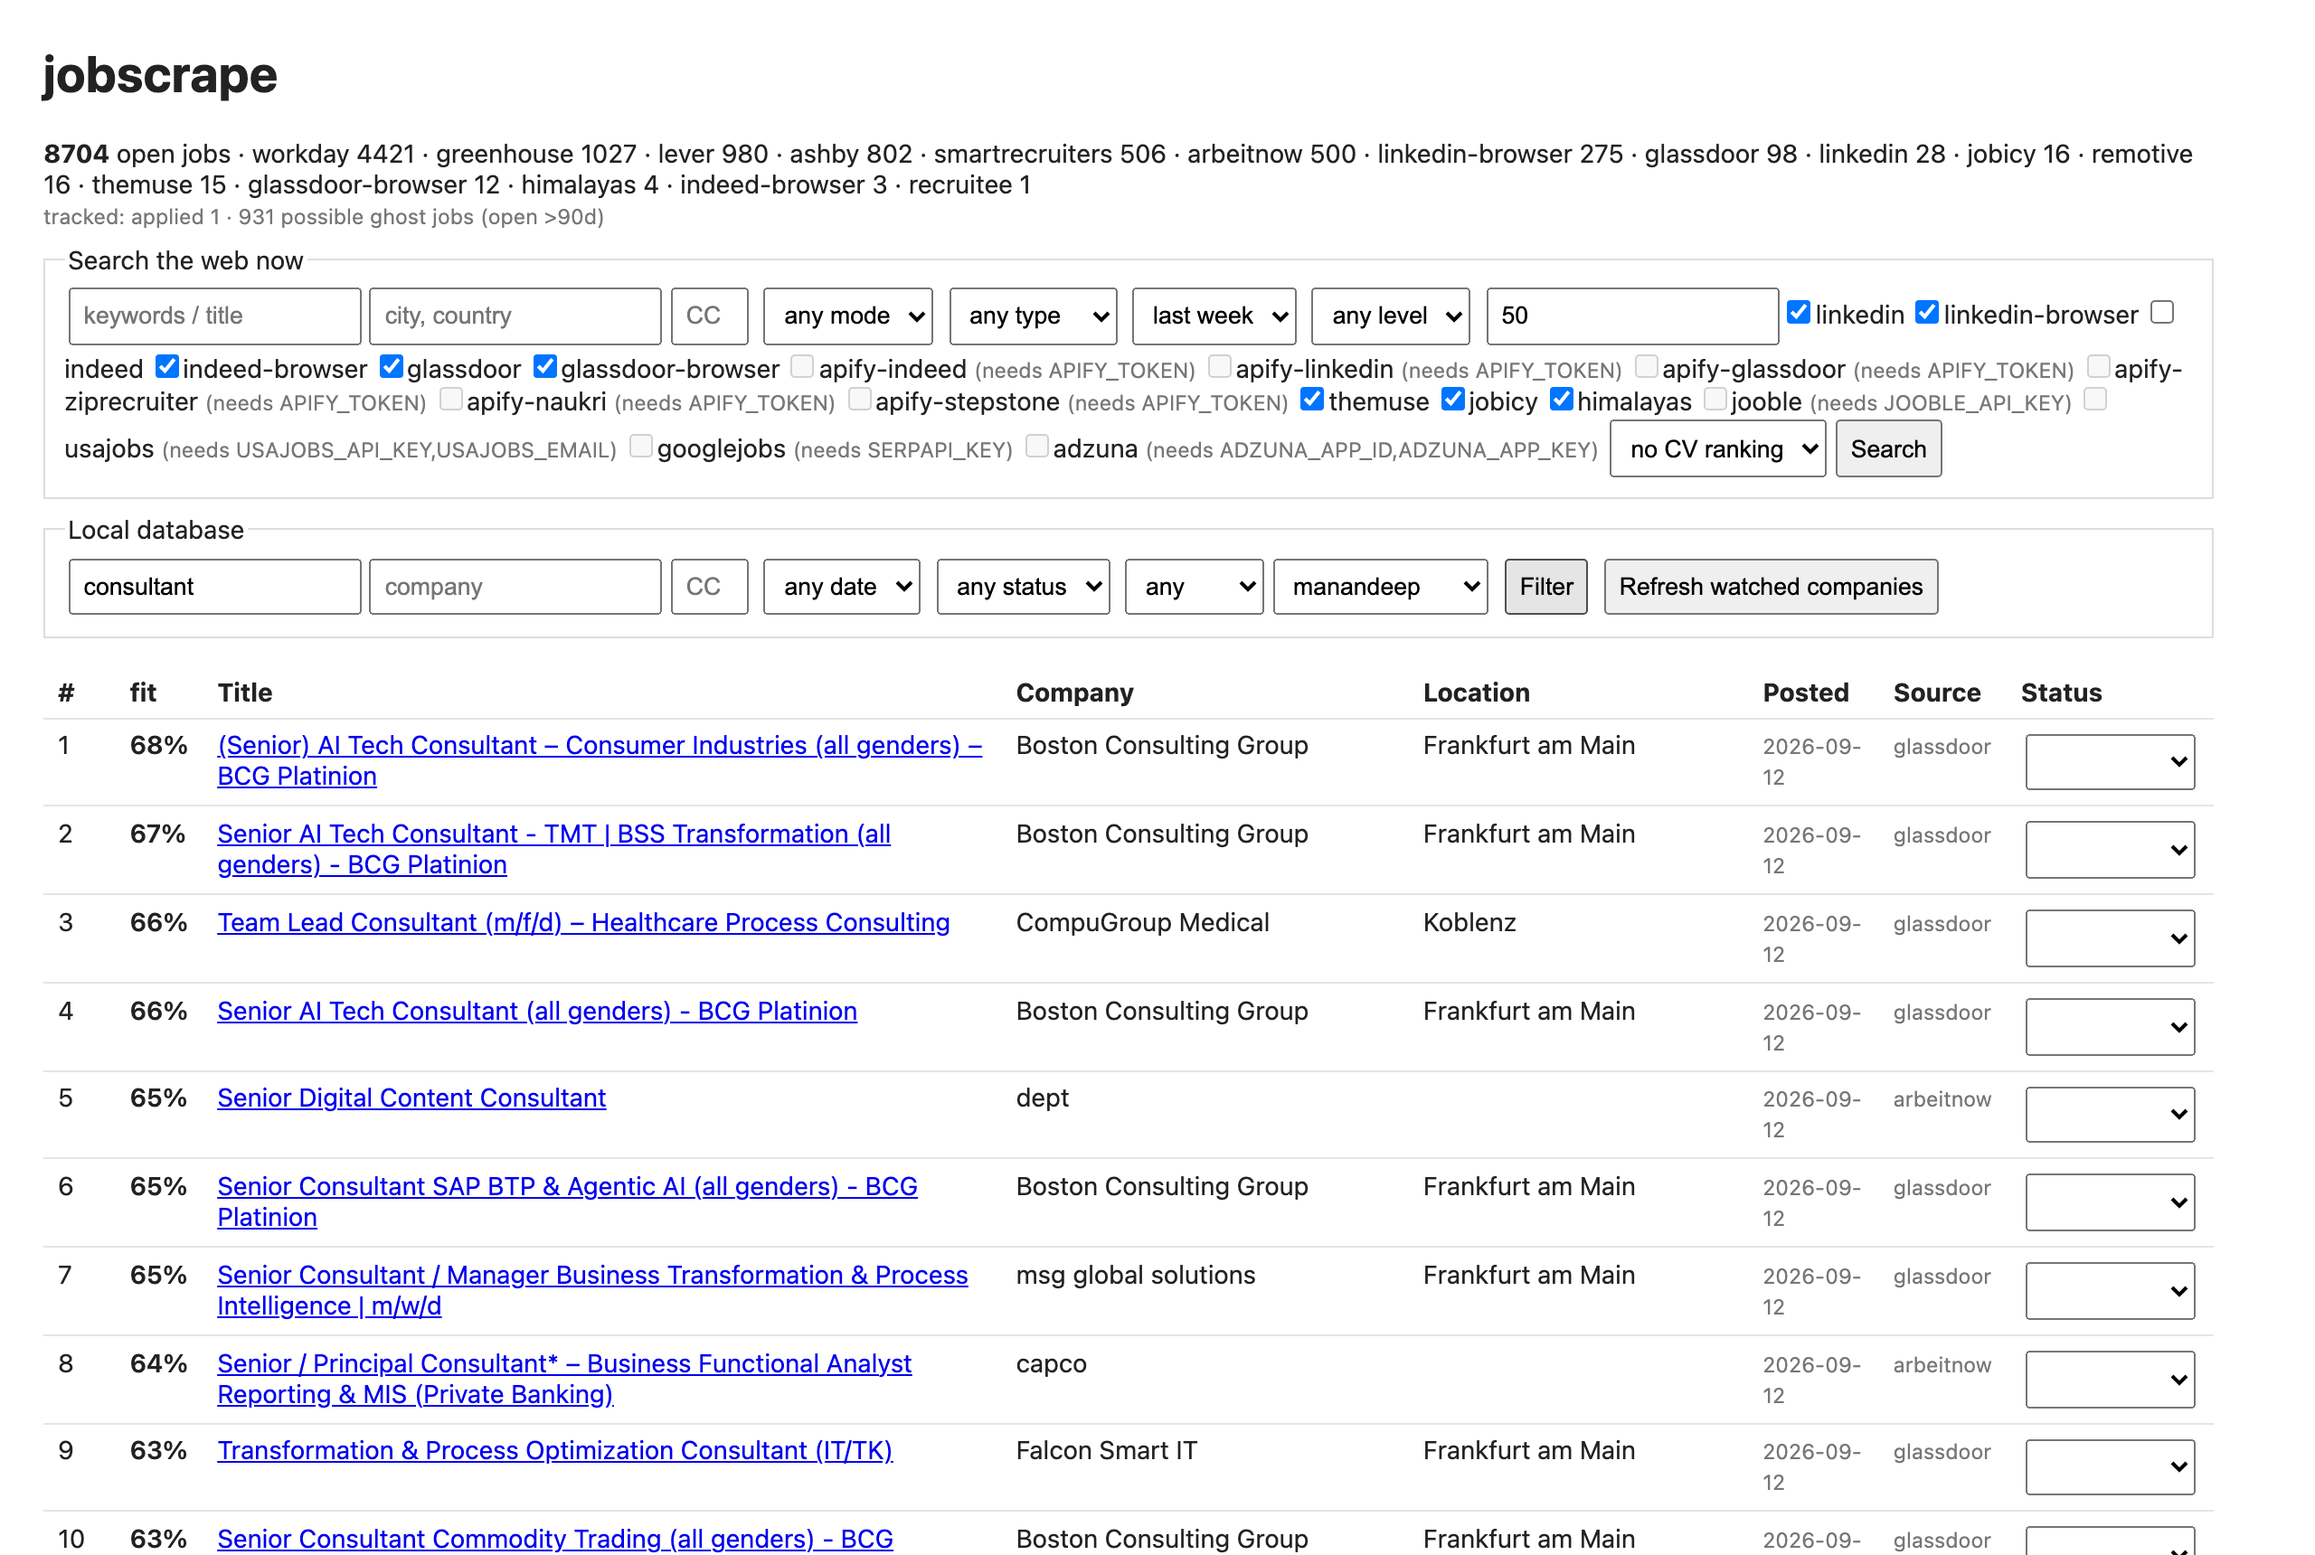
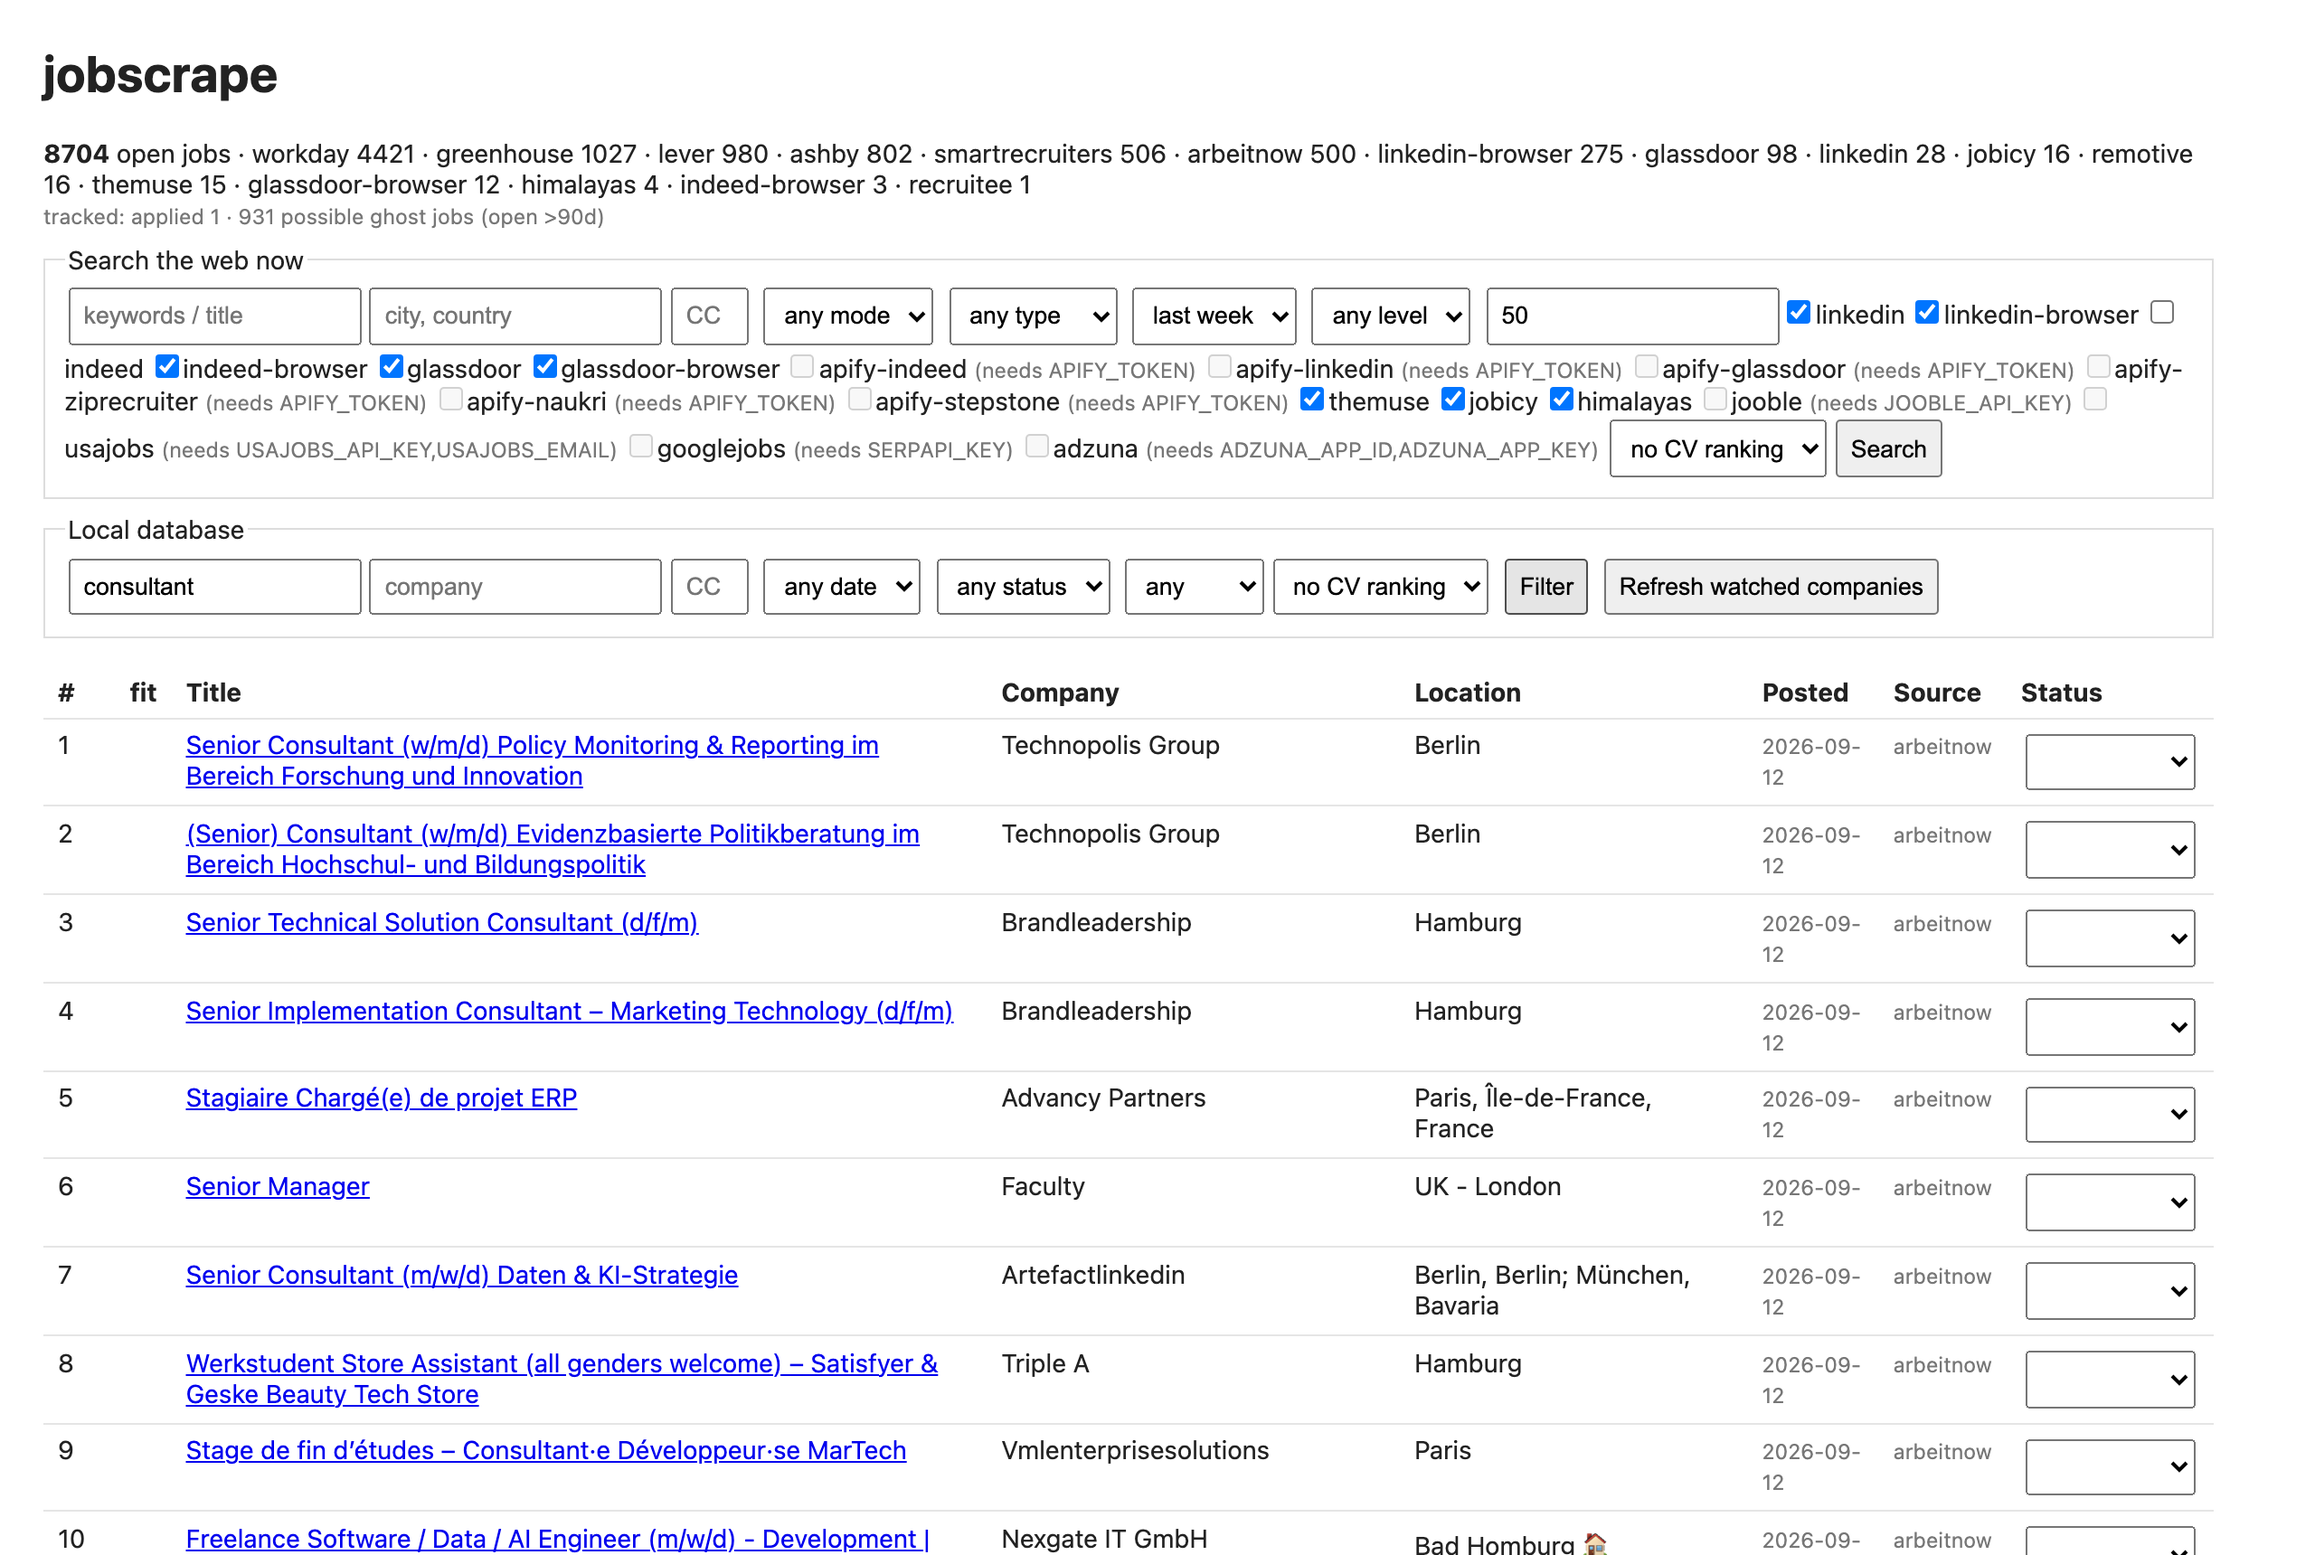
README: show the source health check
An example run with all three sections populated, modelled on the Lever slowdown that actually
happened during development: a source erroring, two fetching far below their seven-day average, one
gone quiet. A screenshot of a clean run would be three zeros and teach nothing. The screenshot
script now renders any terminal transcript and trims the canvas to the content.

diff --git a/scripts/screenshots.ts b/scripts/screenshots.ts
@@ -1,6 +1,7 @@
 // SPDX-License-Identifier: AGPL-3.0-or-later
 // Copyright (C) 2026 Manandeep Gill
-// Regenerates docs/img/*.png: node scripts/screenshots.ts <wizard-transcript.txt> <file:///…/digest.html> [profile-name]
+// Regenerates docs/img/*.png:
+//   node scripts/screenshots.ts <wizard-transcript.txt> <file:///…/digest.html> [profile-name] [health-transcript.txt]
 // Needs `JOBSCRAPE_PORT=3215 node src/index.ts serve` running.
 import { chromium } from "patchright";
 import { readFileSync, writeFileSync } from "node:fs";
@@ -18,14 +19,25 @@ await page.screenshot({ path: "docs/img/dashboard.png" });
 await page.goto(process.argv[3]);  // file:// URL of a generated digest
 await page.waitForTimeout(500);
 await page.screenshot({ path: "docs/img/digest.png", clip: { x: 0, y: 0, width: 1280, height: 720 } });
-// 3) wizard transcript rendered as a terminal
-const transcript = readFileSync(process.argv[2], "utf8");
+// 3) + 4) terminal transcripts rendered as a macOS-style window
 const esc = (s: string) => s.replace(/[<>&]/g, (c) => ({ "<": "&lt;", ">": "&gt;", "&": "&amp;" }[c]!));
-const html = `<html><body style="margin:0;background:#0b0d12"><div style="width:1180px;margin:30px auto;background:#151821;border-radius:12px;box-shadow:0 20px 60px #0008;overflow:hidden;font:14px/1.45 'SF Mono',Menlo,monospace;color:#d7dae0">
-<div style="background:#1f232e;padding:10px 14px;display:flex;gap:8px"><span style="width:12px;height:12px;border-radius:6px;background:#ff5f57"></span><span style="width:12px;height:12px;border-radius:6px;background:#febc2e"></span><span style="width:12px;height:12px;border-radius:6px;background:#28c840"></span><span style="margin-left:12px;color:#8a90a0">jobscrape — node src/index.ts</span></div>
-<pre style="margin:0;padding:18px 22px;white-space:pre-wrap">${esc(transcript).replace(/^(\? .*)$/gm, '<span style="color:#7ab4ff">$1</span>').replace(/^(Plan:.*)$/gm, '<span style="color:#febc2e">$1</span>').replace(/^(\d+ +\d+% +\d+%.*)$/gm, (m) => Number(m.split(/\s+/)[1]) >= 70 ? `<span style="color:#7ee0a0">${m}</span>` : m)}</pre></div></body></html>`;
-await page.setContent(html);
-await page.setViewportSize({ width: 1280, height: 900 });
-await page.screenshot({ path: "docs/img/wizard.png", fullPage: true });
+const colour = (t: string) => esc(t)
+  .replace(/^(\? .*)$/gm, '<span style="color:#7ab4ff">$1</span>')
+  .replace(/^(Plan:.*)$/gm, '<span style="color:#febc2e">$1</span>')
+  .replace(/^(.*✗.*)$/gm, '<span style="color:#ff6b6b">$1</span>')
+  .replace(/^(.*⚠.*)$/gm, '<span style="color:#febc2e">$1</span>')
+  .replace(/^(\d+ +\d+% +\d+%.*)$/gm, (m) => Number(m.split(/\s+/)[1]) >= 70 ? `<span style="color:#7ee0a0">${m}</span>` : m);
+async function terminal(transcript: string, title: string, out: string) {
+  await page.setContent(`<html><body style="margin:0;background:#0b0d12"><div style="width:1180px;margin:30px auto;background:#151821;border-radius:12px;box-shadow:0 20px 60px #0008;overflow:hidden;font:14px/1.45 'SF Mono',Menlo,monospace;color:#d7dae0">
+<div style="background:#1f232e;padding:10px 14px;display:flex;gap:8px"><span style="width:12px;height:12px;border-radius:6px;background:#ff5f57"></span><span style="width:12px;height:12px;border-radius:6px;background:#febc2e"></span><span style="width:12px;height:12px;border-radius:6px;background:#28c840"></span><span style="margin-left:12px;color:#8a90a0">${esc(title)}</span></div>
+<pre style="margin:0;padding:18px 22px;white-space:pre-wrap">${colour(transcript)}</pre></div></body></html>`);
+  await page.setViewportSize({ width: 1280, height: 900 });
+  // body.scrollHeight floors at the viewport, so measure the window element itself and add its 30px margins
+  const h = await page.evaluate(() => Math.ceil(document.querySelector("div")!.getBoundingClientRect().height) + 60);
+  await page.setViewportSize({ width: 1280, height: Math.max(200, h) });
+  await page.screenshot({ path: out, fullPage: true });
+}
+await terminal(readFileSync(process.argv[2], "utf8"), "jobscrape — node src/index.ts", "docs/img/wizard.png");
+if (process.argv[5]) await terminal(readFileSync(process.argv[5], "utf8"), "jobscrape — node src/index.ts health", "docs/img/health.png");
 await b.close();
 console.log("screenshots done");

diff --git a/README.md b/README.md
@@ -62,8 +62,14 @@ Live web search with source checkboxes and CV ranking, filters over everything s
 
 Registered as a launchd agent at 08:30. It refreshes every watched company, re-runs your saved searches, ranks what is
 new, checks that the top links are still live, caps results per employer, writes a Markdown + HTML digest, and sends the
-top matches to Telegram, a webhook and the macOS notification centre. If a scraper breaks, you get a separate alert
-naming the source, because a silent zero looks exactly like "no jobs today".
+top matches to Telegram, a webhook and the macOS notification centre.
+
+<img src="docs/img/health.png" alt="source health check" width="100%">
+
+If a scraper breaks you get a separate alert naming the source, because a silent zero looks exactly like "no jobs
+today". `node src/index.ts health` answers the same question on demand: what failed, what is fetching far less than its
+own seven-day average, and what has gone quiet. The run above is an example with all three populated; a good morning
+prints three zeros.
 
 ## What is under the hood, in one table
 
